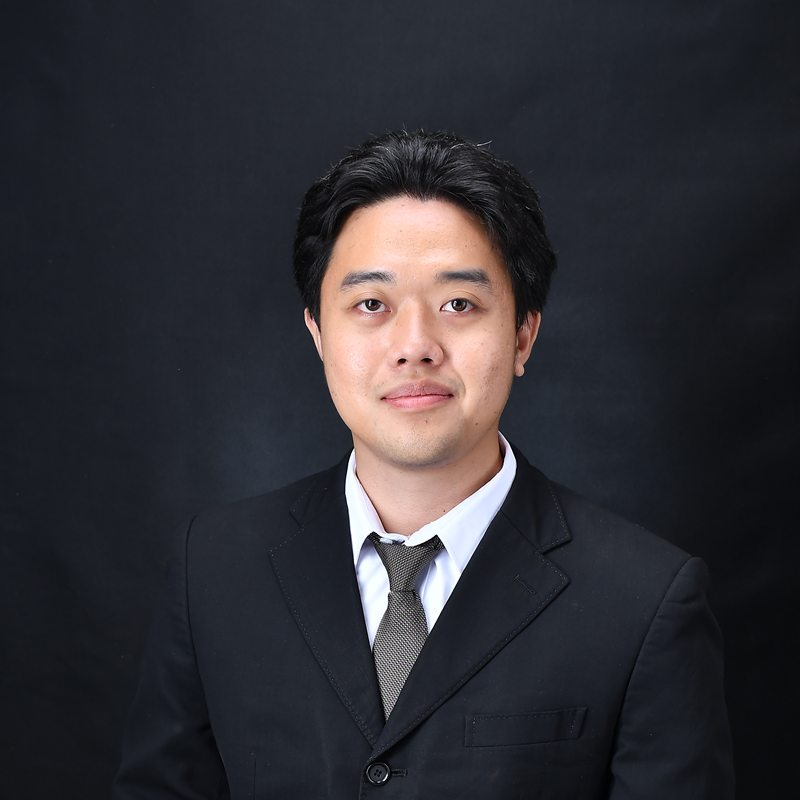
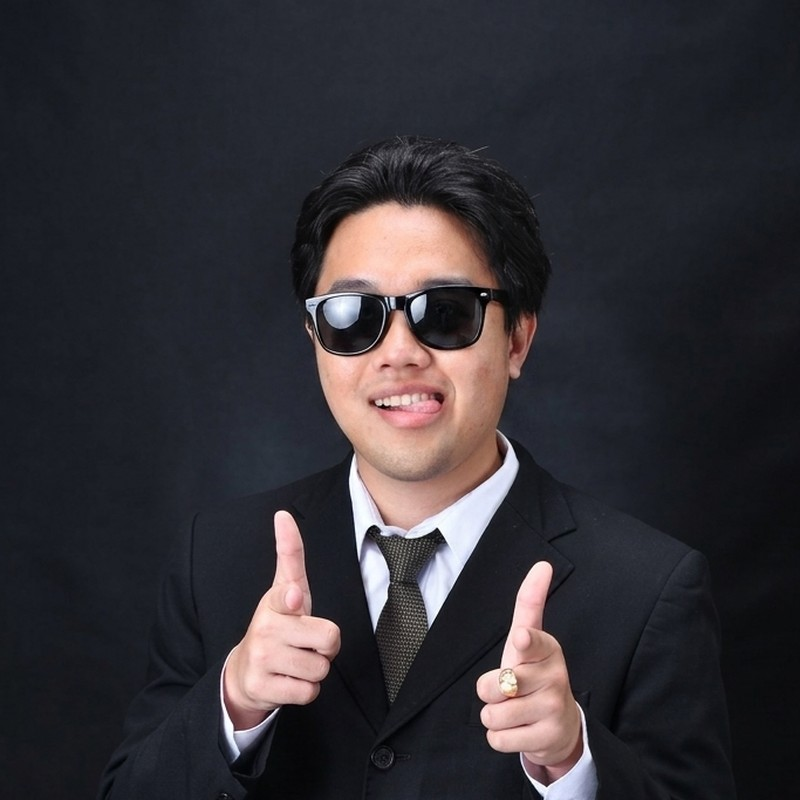
feat: animation and changed image

diff --git a/src/context/ThemeProvider.jsx b/src/context/ThemeProvider.jsx
@@ -1,4 +1,5 @@
-import { useCallback, useEffect, useMemo, useState } from "react";
+import { useCallback, useEffect, useMemo, useRef, useState } from "react";
+import { flushSync } from "react-dom";
 import { ThemeContext } from "./theme-context";
 
 const STORAGE_KEY = "theme";
@@ -22,17 +23,33 @@ function readInitialTheme() {
 }
 
 /**
+ * Writes the theme to the document. Called from the state effect and, directly,
+ * from inside the view transition's DOM-update callback: the snapshot is taken
+ * the moment that callback returns, so the class cannot wait on an effect.
+ */
+function applyTheme(theme) {
+  const root = document.documentElement;
+  root.classList.toggle("dark", theme === "dark");
+  root.style.colorScheme = theme;
+}
+
+function prefersReducedMotion() {
+  return window.matchMedia("(prefers-reduced-motion: reduce)").matches;
+}
+
+/**
  * Owns the single source of truth for the theme. Previously every component
  * that called `useTheme` created its own independent state, so nothing outside
  * the toggle button could react to a theme change.
  */
 export default function ThemeProvider({ children }) {
   const [theme, setTheme] = useState(readInitialTheme);
+  /* Identifies the most recent sweep, so an older one finishing late cannot
+     clear the direction attribute out from under the one now running. */
+  const sweepIdRef = useRef(0);
 
   useEffect(() => {
-    const root = document.documentElement;
-    root.classList.toggle("dark", theme === "dark");
-    root.style.colorScheme = theme;
+    applyTheme(theme);
 
     try {
       localStorage.setItem(STORAGE_KEY, theme);
@@ -59,8 +76,49 @@ export default function ThemeProvider({ children }) {
   }, []);
 
   const toggleTheme = useCallback(() => {
-    setTheme((prev) => (prev === "dark" ? "light" : "dark"));
-  }, []);
+    const next = theme === "dark" ? "light" : "dark";
+    const root = document.documentElement;
+
+    /* No view transitions (Safari < 18, older Firefox) or the visitor asked for
+       less motion: switch outright rather than faking the wipe with an overlay,
+       which would cover the page instead of recolouring it. */
+    if (typeof document.startViewTransition !== "function" || prefersReducedMotion()) {
+      setTheme(next);
+      return;
+    }
+
+    /* Drives which direction the CSS wipes from — see .sweep-* in index.css. */
+    root.dataset.sweep = next;
+    const id = ++sweepIdRef.current;
+
+    const transition = document.startViewTransition(() => {
+      /* Synchronous, so the toggle knob, the portrait and the palette all land
+         in the single snapshot the browser is about to take. Without the flush
+         React would commit a frame later, outside the wipe. */
+      flushSync(() => setTheme(next));
+      applyTheme(next);
+    });
+
+    /* A transition can be aborted before its callback ever runs — a hidden tab,
+       or another transition starting on top of this one. The wipe is expendable
+       but the theme change is not, so apply it plainly instead. */
+    transition.updateCallbackDone.catch(() => {
+      setTheme(next);
+      applyTheme(next);
+    });
+
+    /* `ready` rejects on any skipped transition. Nothing to do about it, but it
+       has to be handled or it surfaces as an uncaught rejection. */
+    transition.ready.catch(() => {});
+
+    transition.finished
+      .catch(() => {
+        // Likewise: a superseded transition rejects here too.
+      })
+      .finally(() => {
+        if (sweepIdRef.current === id) delete root.dataset.sweep;
+      });
+  }, [theme]);
 
   const value = useMemo(
     () => ({ theme, isDark: theme === "dark", toggleTheme, setTheme }),

diff --git a/src/index.css b/src/index.css
@@ -75,36 +75,92 @@
 }
 
 /*
- * Portrait flip. Driven entirely by the `dark` class on <html>, so the
- * transition is handled by the compositor and needs no JavaScript.
+ * Theme sweep.
+ *
+ * The switch is a View Transition: the browser snapshots the page before and
+ * after the `dark` class flips, then the new snapshot is wiped in over the old
+ * one. So what travels across the screen is the page's own background, type,
+ * borders and portrait in their new colours — not an overlay panel sitting on
+ * top of the layout. Everything changes on the same edge, at the same time.
+ *
+ * Dark sweeps in from the left; light comes back from the right.
+ * `data-sweep` is set by src/context/ThemeProvider.jsx for the duration.
  */
-.flip-scene {
-  perspective: 1000px;
+@keyframes sweep-in-from-left {
+  from {
+    clip-path: inset(0 100% 0 0);
+  }
+  to {
+    clip-path: inset(0 0 0 0);
+  }
 }
 
-.flip-inner {
+@keyframes sweep-in-from-right {
+  from {
+    clip-path: inset(0 0 0 100%);
+  }
+  to {
+    clip-path: inset(0 0 0 0);
+  }
+}
+
+/* The default cross-fade would dissolve the two themes into each other behind
+   the wipe. The old snapshot has to sit still and stay opaque. */
+::view-transition-old(root),
+::view-transition-new(root) {
+  animation: none;
+  mix-blend-mode: normal;
+}
+
+::view-transition-image-pair(root) {
+  isolation: auto;
+}
+
+html[data-sweep="dark"]::view-transition-new(root) {
+  animation: sweep-in-from-left var(--sweep-duration) var(--sweep-ease) both;
+}
+
+html[data-sweep="light"]::view-transition-new(root) {
+  animation: sweep-in-from-right var(--sweep-duration) var(--sweep-ease) both;
+}
+
+:root {
+  --sweep-duration: 900ms;
+  --sweep-ease: cubic-bezier(0.65, 0, 0.35, 1);
+}
+
+/*
+ * Portrait.
+ *
+ * Deliberately left inside the page snapshot rather than given a
+ * `view-transition-name` of its own. On its own group it would have run its own
+ * full-length wipe, which put its edge out of step with the page's for all but
+ * the first and last frame. Sharing the root snapshot means one edge crosses
+ * everything: the photo starts changing the instant the background reaches it
+ * and has finished by the time the background has cleared it, exactly as the
+ * type and borders around it do.
+ *
+ * The two faces are stacked and swapped with no transition of their own — the
+ * swap has to land in the same frame as the class change for the snapshot to
+ * catch it. Both stay mounted so the incoming face is already decoded.
+ */
+.portrait {
   position: relative;
-  height: 100%;
-  width: 100%;
-  transform-style: preserve-3d;
-  transition: transform 0.75s cubic-bezier(0.4, 0, 0.2, 1);
 }
 
-:where(html.dark) .flip-inner {
-  transform: rotateY(180deg);
-}
-
-.flip-face {
+.portrait__face {
   position: absolute;
   inset: 0;
   height: 100%;
   width: 100%;
-  backface-visibility: hidden;
-  -webkit-backface-visibility: hidden;
 }
 
-.flip-face-back {
-  transform: rotateY(180deg);
+.portrait__face--dark {
+  opacity: 0;
+}
+
+:where(html.dark) .portrait__face--dark {
+  opacity: 1;
 }
 
 @media (prefers-reduced-motion: reduce) {

diff --git a/src/components/ToggleButton.jsx b/src/components/ToggleButton.jsx
@@ -1,6 +1,9 @@
 import { Sun, Moon } from "lucide-react";
 import { useTheme } from "../hooks/useTheme";
 
+const ICON =
+  "col-start-1 row-start-1 h-3.5 w-3.5 transition-[opacity,rotate,scale] duration-300 ease-out";
+
 export default function ToggleButton() {
   const { isDark, toggleTheme } = useTheme();
 
@@ -15,7 +18,7 @@ export default function ToggleButton() {
       aria-checked={isDark}
       aria-label={isDark ? "Switch to light mode" : "Switch to dark mode"}
       title={isDark ? "Switch to light mode" : "Switch to dark mode"}
-      className={`relative h-7.5 w-11 shrink-0 rounded-full border transition-colors duration-300 ease-in-out min-[360px]:w-13 ${
+      className={`relative h-7.5 w-11 shrink-0 rounded-full border transition-colors duration-300 ease-in-out active:scale-95 min-[360px]:w-13 ${
         isDark
           ? "border-[#3a3a3a] bg-[#1f1f1f]"
           : "border-gray-300 bg-gray-200"
@@ -27,16 +30,28 @@ export default function ToggleButton() {
         even if the track width changes. A hardcoded translate-x-6 slid it 24px
         against a 50px inner track and left it flush with the right edge.
       */}
+      {/*
+        Grid rather than flex so the two icons stack in one cell and can cross
+        over each other. Rendering them conditionally swapped one for the other
+        in a single frame, which read as a pop next to the sliding knob.
+      */}
       <span
-        className={`absolute top-1/2 flex h-6 w-6 -translate-y-1/2 items-center justify-center rounded-full bg-white shadow-sm transition-[left] duration-300 ease-in-out ${
+        className={`absolute top-1/2 grid h-6 w-6 -translate-y-1/2 place-items-center rounded-full bg-white shadow-sm transition-[left] duration-400 ease-[cubic-bezier(0.65,0,0.35,1)] ${
           isDark ? "left-[calc(100%-1.5rem-0.125rem)]" : "left-0.5"
         }`}
       >
-        {isDark ? (
-          <Moon className="h-3.5 w-3.5 text-gray-700" aria-hidden="true" />
-        ) : (
-          <Sun className="h-3.5 w-3.5 text-amber-500" aria-hidden="true" />
-        )}
+        <Sun
+          className={`${ICON} text-amber-500 ${
+            isDark ? "rotate-90 scale-50 opacity-0" : "rotate-0 scale-100 opacity-100"
+          }`}
+          aria-hidden="true"
+        />
+        <Moon
+          className={`${ICON} text-gray-700 ${
+            isDark ? "rotate-0 scale-100 opacity-100" : "-rotate-90 scale-50 opacity-0"
+          }`}
+          aria-hidden="true"
+        />
       </span>
     </button>
   );

diff --git a/src/components/ProfilePhoto.jsx b/src/components/ProfilePhoto.jsx
@@ -1,37 +1,37 @@
 const FACE =
-  "flip-face rounded-2xl object-cover shadow-sm ring-1 ring-gray-200 dark:ring-[#262626]";
+  "portrait__face rounded-2xl object-cover shadow-sm ring-1 ring-gray-200 dark:ring-[#262626]";
 
 /**
- * Flips between the light-mode and dark-mode portraits when the theme changes.
+ * Stacks the light-mode and dark-mode portraits and swaps them on the `dark`
+ * class, with no transition of its own (see .portrait-* in src/index.css).
  *
- * The rotation is pure CSS keyed off the `dark` class on <html> (see
- * .flip-* in src/index.css), so it works before React hydrates and cannot be
- * left half-turned by a throttled animation frame. Both images stay mounted so
- * the reverse face is already decoded when the card turns.
+ * The swap is deliberately instant: the theme switch is a view transition, so
+ * the portrait is carried across by the same wipe as the page background and
+ * changes on exactly the same edge. Animating it separately would put it out
+ * of step with everything around it.
  */
 export default function ProfilePhoto({ className = "" }) {
   return (
-    <div className={`flip-scene relative shrink-0 ${className}`}>
-      <div className="flip-inner">
-        <img
-          src="/images/me-light.jpg"
-          alt="John Raison Salvador"
-          width={800}
-          height={800}
-          fetchPriority="high"
-          decoding="async"
-          className={FACE}
-        />
-        <img
-          src="/images/me-dark.jpg"
-          alt=""
-          aria-hidden="true"
-          width={800}
-          height={800}
-          decoding="async"
-          className={`${FACE} flip-face-back`}
-        />
-      </div>
+    <div className={`portrait shrink-0 ${className}`}>
+      <img
+        src="/images/me-light.jpg"
+        alt="John Raison Salvador"
+        width={800}
+        height={800}
+        fetchPriority="high"
+        decoding="async"
+        className={FACE}
+      />
+
+      <img
+        src="/images/me-dark.jpg"
+        alt=""
+        aria-hidden="true"
+        width={800}
+        height={800}
+        decoding="async"
+        className={`${FACE} portrait__face--dark`}
+      />
     </div>
   );
 }
